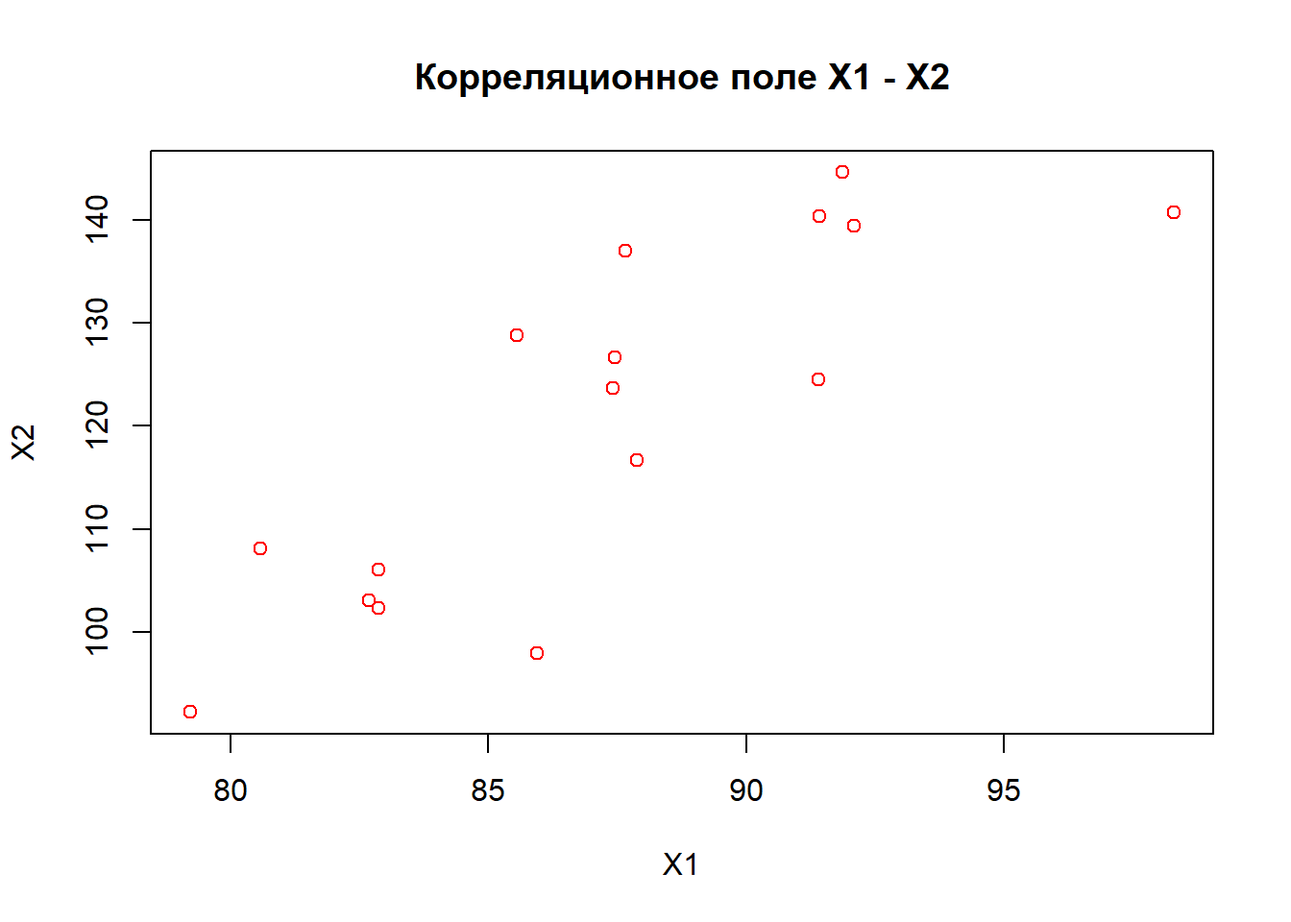
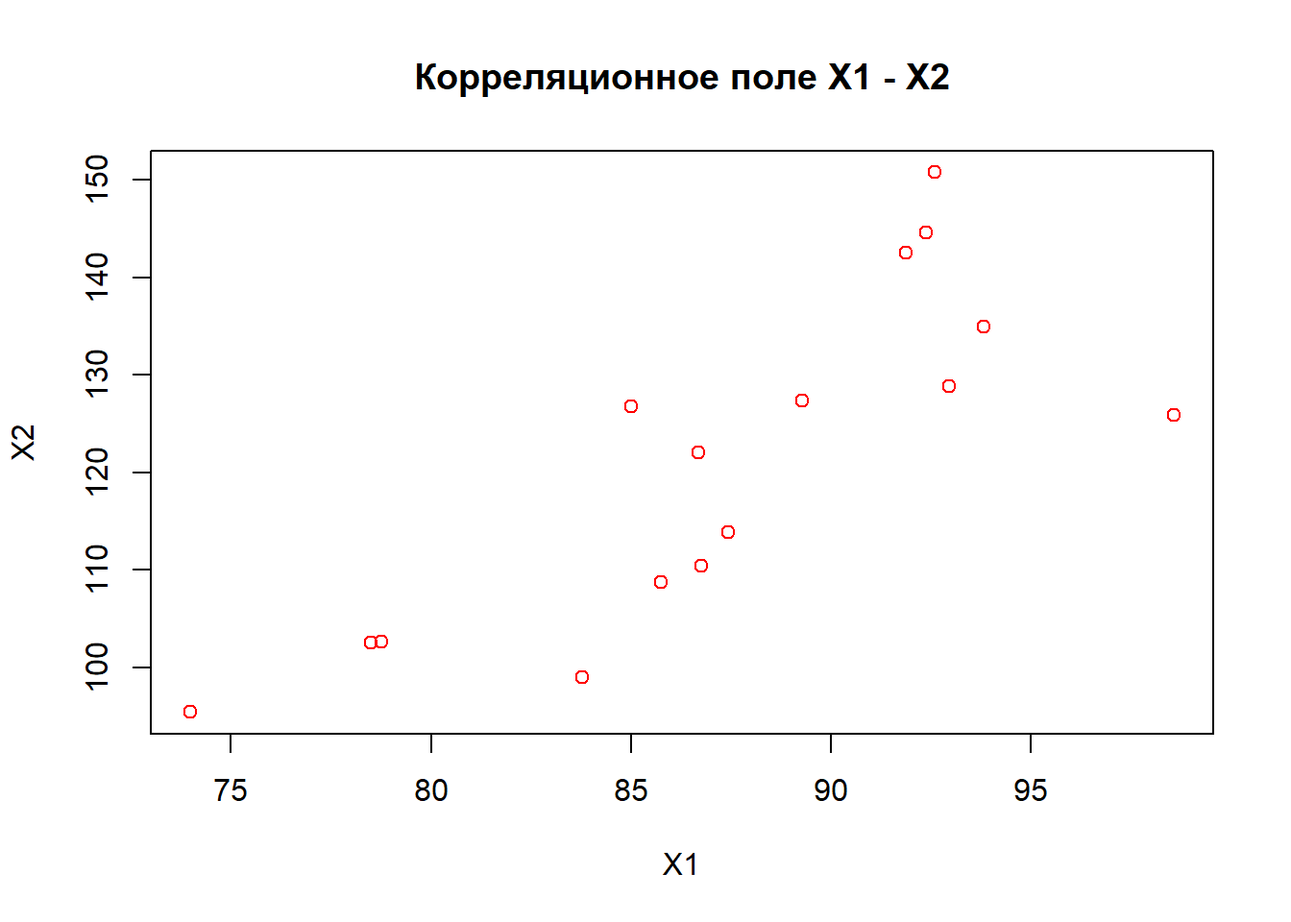
Started book

diff --git a/graphics.html b/graphics.html
@@ -24,7 +24,7 @@
 <meta name="author" content="Михаил Лысенко" />
 
 
-<meta name="date" content="2020-04-17" />
+<meta name="date" content="2020-04-20" />
 
   <meta name="viewport" content="width=device-width, initial-scale=1" />
   <meta name="apple-mobile-web-app-capable" content="yes" />
@@ -223,22 +223,22 @@ code span.wa { color: #60a0b0; font-weight: bold; font-style: italic; } /* Warni
 <a class="sourceLine" id="cb117-6" title="6">           )</a>
 <a class="sourceLine" id="cb117-7" title="7">dt4</a>
 <a class="sourceLine" id="cb117-8" title="8"><span class="co">#     id        y       x1        x2 x3</span></a>
-<a class="sourceLine" id="cb117-9" title="9"><span class="co">#  1:  1 60.67591 79.21969  92.26569  a</span></a>
-<a class="sourceLine" id="cb117-10" title="10"><span class="co">#  2:  2 61.72452 80.58171 108.15305  a</span></a>
-<a class="sourceLine" id="cb117-11" title="11"><span class="co">#  3:  3 61.92236 82.87583 102.37141  a</span></a>
-<a class="sourceLine" id="cb117-12" title="12"><span class="co">#  4:  4 61.79400 85.93679  97.92914  a</span></a>
-<a class="sourceLine" id="cb117-13" title="13"><span class="co">#  5:  5 62.81729 82.87147 106.10911  a</span></a>
-<a class="sourceLine" id="cb117-14" title="14"><span class="co">#  6:  6 62.80943 82.69275 103.06020  a</span></a>
-<a class="sourceLine" id="cb117-15" title="15"><span class="co">#  7:  7 62.21694 87.40802 123.68272  a</span></a>
-<a class="sourceLine" id="cb117-16" title="16"><span class="co">#  8:  8 63.67433 87.46018 126.63479  a</span></a>
-<a class="sourceLine" id="cb117-17" title="17"><span class="co">#  9:  9 63.58981 87.88465 116.70405  b</span></a>
-<a class="sourceLine" id="cb117-18" title="18"><span class="co"># 10: 10 64.35889 85.54751 128.79754  b</span></a>
-<a class="sourceLine" id="cb117-19" title="19"><span class="co"># 11: 11 66.37115 87.66050 137.00991  b</span></a>
-<a class="sourceLine" id="cb117-20" title="20"><span class="co"># 12: 12 63.27261 91.40185 124.46477  b</span></a>
-<a class="sourceLine" id="cb117-21" title="21"><span class="co"># 13: 13 65.53812 91.87163 144.58721  b</span></a>
-<a class="sourceLine" id="cb117-22" title="22"><span class="co"># 14: 14 67.40902 91.41421 140.32270  b</span></a>
-<a class="sourceLine" id="cb117-23" title="23"><span class="co"># 15: 15 67.02565 92.08436 139.41926  b</span></a>
-<a class="sourceLine" id="cb117-24" title="24"><span class="co"># 16: 16 68.65968 98.28665 140.72652  b</span></a></code></pre></div>
+<a class="sourceLine" id="cb117-9" title="9"><span class="co">#  1:  1 58.38335 73.97693  95.41637  a</span></a>
+<a class="sourceLine" id="cb117-10" title="10"><span class="co">#  2:  2 61.38669 78.49843 102.54036  a</span></a>
+<a class="sourceLine" id="cb117-11" title="11"><span class="co">#  3:  3 62.10987 78.75000 102.60623  a</span></a>
+<a class="sourceLine" id="cb117-12" title="12"><span class="co">#  4:  4 60.34363 83.77138  98.95742  a</span></a>
+<a class="sourceLine" id="cb117-13" title="13"><span class="co">#  5:  5 61.40765 85.75505 108.70794  a</span></a>
+<a class="sourceLine" id="cb117-14" title="14"><span class="co">#  6:  6 63.25635 86.75498 110.37966  a</span></a>
+<a class="sourceLine" id="cb117-15" title="15"><span class="co">#  7:  7 62.59664 87.42656 113.88343  a</span></a>
+<a class="sourceLine" id="cb117-16" title="16"><span class="co">#  8:  8 64.70549 86.68360 122.08660  a</span></a>
+<a class="sourceLine" id="cb117-17" title="17"><span class="co">#  9:  9 63.93793 89.27899 127.31826  b</span></a>
+<a class="sourceLine" id="cb117-18" title="18"><span class="co"># 10: 10 64.94989 84.99556 126.73719  b</span></a>
+<a class="sourceLine" id="cb117-19" title="19"><span class="co"># 11: 11 65.44007 98.57728 125.87169  b</span></a>
+<a class="sourceLine" id="cb117-20" title="20"><span class="co"># 12: 12 65.63414 92.96463 128.84540  b</span></a>
+<a class="sourceLine" id="cb117-21" title="21"><span class="co"># 13: 13 66.44715 93.82178 134.93695  b</span></a>
+<a class="sourceLine" id="cb117-22" title="22"><span class="co"># 14: 14 68.30799 91.88811 142.54846  b</span></a>
+<a class="sourceLine" id="cb117-23" title="23"><span class="co"># 15: 15 66.21250 92.37817 144.58539  b</span></a>
+<a class="sourceLine" id="cb117-24" title="24"><span class="co"># 16: 16 68.30972 92.60456 150.76835  b</span></a></code></pre></div>
 <div id="стандартные-методы" class="section level2">
 <h2><span class="header-section-number">4.1</span> Стандартные методы</h2>
 <p>Стандартные методы ограничены в возможностях, чаще используются для быстрой визуализации “для себя”</p>
@@ -292,9 +292,9 @@ code span.wa { color: #60a0b0; font-weight: bold; font-style: italic; } /* Warni
 <a class="sourceLine" id="cb124-4" title="4"><span class="st">  </span><span class="kw">geom_point</span>(<span class="dt">data =</span> dt4[,.(<span class="dt">x1=</span><span class="kw">mean</span>(x1), <span class="dt">y=</span><span class="kw">mean</span>(y), x2, id),x3], <span class="co"># рассчитали средний y, x1 для каждого x3, x2 и id неважны, но исключить нельзя</span></a>
 <a class="sourceLine" id="cb124-5" title="5">             <span class="kw">aes</span>(<span class="dt">x=</span>x1,<span class="dt">y=</span>y),      <span class="co"># отметим среднее по x1 и y</span></a>
 <a class="sourceLine" id="cb124-6" title="6">             <span class="dt">color=</span><span class="st">&quot;black&quot;</span>,      <span class="co"># всё черного  цвета</span></a>
-<a class="sourceLine" id="cb124-7" title="7">             <span class="dt">size=</span><span class="dv">5</span>,            <span class="co"># крупный размер (10)</span></a>
+<a class="sourceLine" id="cb124-7" title="7">             <span class="dt">size=</span><span class="dv">5</span>,            <span class="co"># крупный размер (5)</span></a>
 <a class="sourceLine" id="cb124-8" title="8">             <span class="dt">shape=</span><span class="dv">3</span>,            <span class="co"># форма №3 (форма плюса)</span></a>
-<a class="sourceLine" id="cb124-9" title="9">             <span class="dt">stroke =</span> <span class="fl">1.5</span>)<span class="op">+</span><span class="st">  </span><span class="co"># форма №21, заполнение fill светло-серым, непрозначность 80%, толщина границ 1.3</span></a>
+<a class="sourceLine" id="cb124-9" title="9">             <span class="dt">stroke =</span> <span class="fl">1.5</span>)<span class="op">+</span><span class="st">  </span><span class="co"># толщина границ 1.3</span></a>
 <a class="sourceLine" id="cb124-10" title="10"><span class="st">  </span><span class="kw">geom_text</span>(<span class="dt">data =</span> dt4[,.(<span class="dt">x1=</span><span class="kw">mean</span>(x1), <span class="dt">y=</span><span class="kw">mean</span>(y), <span class="dt">x2=</span><span class="dv">0</span>, <span class="dt">id=</span><span class="kw">round</span>(<span class="kw">cor</span>(y,x1),<span class="dv">3</span>)),x3],</a>
 <a class="sourceLine" id="cb124-11" title="11">            <span class="kw">aes</span>(<span class="dt">x=</span>x1,<span class="dt">y=</span>y,<span class="dt">label=</span>id, <span class="dt">col=</span><span class="kw">factor</span>(x3)), <span class="co"># выведем коэффициент корреляции для каждой груммы по x3</span></a>
 <a class="sourceLine" id="cb124-12" title="12">            <span class="dt">size=</span><span class="dv">10</span>,             <span class="co"># размер текста</span></a>
@@ -349,8 +349,8 @@ code span.wa { color: #60a0b0; font-weight: bold; font-style: italic; } /* Warni
 <a class="sourceLine" id="cb125-17" title="17">    ) <span class="op">%&gt;%</span></a>
 <a class="sourceLine" id="cb125-18" title="18"><span class="st">  </span><span class="kw">hc_add_theme</span>(<span class="kw">hc_theme_google</span>()) <span class="op">%&gt;%</span><span class="st">      </span><span class="co"># задать тему</span></a>
 <a class="sourceLine" id="cb125-19" title="19"><span class="st">  </span><span class="kw">hc_title</span>(<span class="dt">text =</span> <span class="st">&#39;Highcharter plot&#39;</span>)      <span class="co"># заголовок графика</span></a></code></pre></div>
-<div id="htmlwidget-5bd3913b70f540dba408" style="width:100%;height:500px;" class="highchart html-widget"></div>
-<script type="application/json" data-for="htmlwidget-5bd3913b70f540dba408">{"x":{"hc_opts":{"title":{"text":"Highcharter plot"},"yAxis":[{"opposite":false,"title":{"text":"Value of y"},"min":50.6759075645518},{"opposite":true,"title":{"text":"Values of x1, x2"}}],"credits":{"enabled":false},"exporting":{"enabled":false},"plotOptions":{"series":{"label":{"enabled":false},"turboThreshold":0},"treemap":{"layoutAlgorithm":"squarified"}},"xAxis":{"categories":[1,2,3,4,5,6,7,8,9,10,11,12,13,14,15,16],"title":{"text":"Number in order"}},"series":[{"data":[60.7,61.7,61.9,61.8,62.8,62.8,62.2,63.7,63.6,64.4,66.4,63.3,65.5,67.4,67,68.7],"name":"y","type":"column","color":"#D1D1D1"},{"data":[79.2,80.6,82.9,85.9,82.9,82.7,87.4,87.5,87.9,85.5,87.7,91.4,91.9,91.4,92.1,98.3],"name":"x1","type":"line","yAxis":1,"color":"#0080FF"},{"data":[92.3,108.2,102.4,97.9,106.1,103.1,123.7,126.6,116.7,128.8,137,124.5,144.6,140.3,139.4,140.7],"name":"x2","type":"line","yAxis":1,"color":"#FF6666"}]},"theme":{"colors":["#0266C8","#F90101","#F2B50F","#00933B"],"chart":{"style":{"fontFamily":"Roboto","color":"#444444"}},"xAxis":{"gridLineWidth":1,"gridLineColor":"#F3F3F3","lineColor":"#F3F3F3","minorGridLineColor":"#F3F3F3","tickColor":"#F3F3F3","tickWidth":1},"yAxis":{"gridLineColor":"#F3F3F3","lineColor":"#F3F3F3","minorGridLineColor":"#F3F3F3","tickColor":"#F3F3F3","tickWidth":1},"legendBackgroundColor":"rgba(0, 0, 0, 0.5)","background2":"#505053","dataLabelsColor":"#B0B0B3","textColor":"#C0C0C0","contrastTextColor":"#F0F0F3","maskColor":"rgba(255,255,255,0.3)"},"conf_opts":{"global":{"Date":null,"VMLRadialGradientURL":"http =//code.highcharts.com/list(version)/gfx/vml-radial-gradient.png","canvasToolsURL":"http =//code.highcharts.com/list(version)/modules/canvas-tools.js","getTimezoneOffset":null,"timezoneOffset":0,"useUTC":true},"lang":{"contextButtonTitle":"Chart context menu","decimalPoint":".","downloadJPEG":"Download JPEG image","downloadPDF":"Download PDF document","downloadPNG":"Download PNG image","downloadSVG":"Download SVG vector image","drillUpText":"Back to {series.name}","invalidDate":null,"loading":"Loading...","months":["January","February","March","April","May","June","July","August","September","October","November","December"],"noData":"No data to display","numericSymbols":["k","M","G","T","P","E"],"printChart":"Print chart","resetZoom":"Reset zoom","resetZoomTitle":"Reset zoom level 1:1","shortMonths":["Jan","Feb","Mar","Apr","May","Jun","Jul","Aug","Sep","Oct","Nov","Dec"],"thousandsSep":" ","weekdays":["Sunday","Monday","Tuesday","Wednesday","Thursday","Friday","Saturday"]}},"type":"chart","fonts":"Roboto","debug":false},"evals":[],"jsHooks":[]}</script>
+<div id="htmlwidget-7718a77925a2e0e5af71" style="width:100%;height:500px;" class="highchart html-widget"></div>
+<script type="application/json" data-for="htmlwidget-7718a77925a2e0e5af71">{"x":{"hc_opts":{"title":{"text":"Highcharter plot"},"yAxis":[{"opposite":false,"title":{"text":"Value of y"},"min":48.3833509966203},{"opposite":true,"title":{"text":"Values of x1, x2"}}],"credits":{"enabled":false},"exporting":{"enabled":false},"plotOptions":{"series":{"label":{"enabled":false},"turboThreshold":0},"treemap":{"layoutAlgorithm":"squarified"}},"xAxis":{"categories":[1,2,3,4,5,6,7,8,9,10,11,12,13,14,15,16],"title":{"text":"Number in order"}},"series":[{"data":[58.4,61.4,62.1,60.3,61.4,63.3,62.6,64.7,63.9,64.9,65.4,65.6,66.4,68.3,66.2,68.3],"name":"y","type":"column","color":"#D1D1D1"},{"data":[74,78.5,78.7,83.8,85.8,86.8,87.4,86.7,89.3,85,98.6,93,93.8,91.9,92.4,92.6],"name":"x1","type":"line","yAxis":1,"color":"#0080FF"},{"data":[95.4,102.5,102.6,99,108.7,110.4,113.9,122.1,127.3,126.7,125.9,128.8,134.9,142.5,144.6,150.8],"name":"x2","type":"line","yAxis":1,"color":"#FF6666"}]},"theme":{"colors":["#0266C8","#F90101","#F2B50F","#00933B"],"chart":{"style":{"fontFamily":"Roboto","color":"#444444"}},"xAxis":{"gridLineWidth":1,"gridLineColor":"#F3F3F3","lineColor":"#F3F3F3","minorGridLineColor":"#F3F3F3","tickColor":"#F3F3F3","tickWidth":1},"yAxis":{"gridLineColor":"#F3F3F3","lineColor":"#F3F3F3","minorGridLineColor":"#F3F3F3","tickColor":"#F3F3F3","tickWidth":1},"legendBackgroundColor":"rgba(0, 0, 0, 0.5)","background2":"#505053","dataLabelsColor":"#B0B0B3","textColor":"#C0C0C0","contrastTextColor":"#F0F0F3","maskColor":"rgba(255,255,255,0.3)"},"conf_opts":{"global":{"Date":null,"VMLRadialGradientURL":"http =//code.highcharts.com/list(version)/gfx/vml-radial-gradient.png","canvasToolsURL":"http =//code.highcharts.com/list(version)/modules/canvas-tools.js","getTimezoneOffset":null,"timezoneOffset":0,"useUTC":true},"lang":{"contextButtonTitle":"Chart context menu","decimalPoint":".","downloadJPEG":"Download JPEG image","downloadPDF":"Download PDF document","downloadPNG":"Download PNG image","downloadSVG":"Download SVG vector image","drillUpText":"Back to {series.name}","invalidDate":null,"loading":"Loading...","months":["January","February","March","April","May","June","July","August","September","October","November","December"],"noData":"No data to display","numericSymbols":["k","M","G","T","P","E"],"printChart":"Print chart","resetZoom":"Reset zoom","resetZoomTitle":"Reset zoom level 1:1","shortMonths":["Jan","Feb","Mar","Apr","May","Jun","Jul","Aug","Sep","Oct","Nov","Dec"],"thousandsSep":" ","weekdays":["Sunday","Monday","Tuesday","Wednesday","Thursday","Friday","Saturday"]}},"type":"chart","fonts":"Roboto","debug":false},"evals":[],"jsHooks":[]}</script>
 <p>Построим график зависимости <code>y</code> от <code>x1</code> c изменением цвета в зависимости от <code>x2</code></p>
 <div class="sourceCode" id="cb126"><pre class="sourceCode r"><code class="sourceCode r"><a class="sourceLine" id="cb126-1" title="1"></a>
 <a class="sourceLine" id="cb126-2" title="2"><span class="kw">highchart</span>() <span class="op">%&gt;%</span></a>
@@ -369,8 +369,8 @@ code span.wa { color: #60a0b0; font-weight: bold; font-style: italic; } /* Warni
 <a class="sourceLine" id="cb126-15" title="15"><span class="st">  </span><span class="kw">hc_add_theme</span>(<span class="kw">hc_theme_flatdark</span>())<span class="op">%&gt;%</span><span class="st">    </span><span class="co"># задать тему</span></a>
 <a class="sourceLine" id="cb126-16" title="16"><span class="st">  </span><span class="kw">hc_legend</span>(<span class="dt">enabled =</span> F) <span class="op">%&gt;%</span><span class="st">              </span><span class="co"># убрать легенду</span></a>
 <a class="sourceLine" id="cb126-17" title="17"><span class="st">  </span><span class="kw">hc_title</span>(<span class="dt">text =</span> <span class="st">&#39;Highcharter plot&#39;</span>)     <span class="co"># заголовок графика</span></a></code></pre></div>
-<div id="htmlwidget-641fe398be8c23fbb2bd" style="width:100%;height:500px;" class="highchart html-widget"></div>
-<script type="application/json" data-for="htmlwidget-641fe398be8c23fbb2bd">{"x":{"hc_opts":{"title":{"text":"Highcharter plot"},"yAxis":{"title":{"text":"Value of y"}},"credits":{"enabled":false},"exporting":{"enabled":false},"plotOptions":{"series":{"label":{"enabled":false},"turboThreshold":0},"treemap":{"layoutAlgorithm":"squarified"}},"xAxis":{"title":{"text":"Value of x1"}},"series":[{"group":"group","data":[{"id":1,"y":60.6759075645518,"x1":79.2196877157603,"x2":92.2656924569471,"x3":"a","x":79.2196877157603,"size":92.2656924569471,"color":"#FF0000","z":92.2656924569471},{"id":2,"y":61.7245186198755,"x1":80.5817107669678,"x2":108.153054023406,"x3":"a","x":80.5817107669678,"size":108.153054023406,"color":"#FF0000","z":108.153054023406},{"id":3,"y":61.9223581240193,"x1":82.8758301518235,"x2":102.371408492193,"x3":"a","x":82.8758301518235,"size":102.371408492193,"color":"#FF0000","z":102.371408492193},{"id":4,"y":61.794000257771,"x1":85.9367938165178,"x2":97.9291391824693,"x3":"a","x":85.9367938165178,"size":97.9291391824693,"color":"#FF0000","z":97.9291391824693},{"id":5,"y":62.817291359193,"x1":82.8714743968719,"x2":106.109109196036,"x3":"a","x":82.8714743968719,"size":106.109109196036,"color":"#FF0000","z":106.109109196036},{"id":6,"y":62.8094305735317,"x1":82.692753738397,"x2":103.060196099515,"x3":"a","x":82.692753738397,"size":103.060196099515,"color":"#FF0000","z":103.060196099515},{"id":7,"y":62.2169444743762,"x1":87.4080235569972,"x2":123.682716106506,"x3":"a","x":87.4080235569972,"size":123.682716106506,"color":"#FF0000","z":123.682716106506},{"id":8,"y":63.6743302010759,"x1":87.4601848552019,"x2":126.634785642349,"x3":"a","x":87.4601848552019,"size":126.634785642349,"color":"#FF0000","z":126.634785642349},{"id":9,"y":63.5898082533789,"x1":87.8846480826123,"x2":116.704049452715,"x3":"b","x":87.8846480826123,"size":116.704049452715,"color":"#FFFF00","z":116.704049452715},{"id":10,"y":64.3588879816275,"x1":85.5475082566329,"x2":128.797542847218,"x3":"b","x":85.5475082566329,"size":128.797542847218,"color":"#FFFF00","z":128.797542847218},{"id":11,"y":66.3711479753302,"x1":87.6605028993475,"x2":137.009911095593,"x3":"b","x":87.6605028993475,"size":137.009911095593,"color":"#FFFF00","z":137.009911095593},{"id":12,"y":63.2726099075971,"x1":91.4018501632979,"x2":124.464768573903,"x3":"b","x":91.4018501632979,"size":124.464768573903,"color":"#FFFF00","z":124.464768573903},{"id":13,"y":65.538122855648,"x1":91.871631251494,"x2":144.587206762589,"x3":"b","x":91.871631251494,"size":144.587206762589,"color":"#FFFF00","z":144.587206762589},{"id":14,"y":67.4090163169578,"x1":91.4142119137,"x2":140.322698933126,"x3":"b","x":91.4142119137,"size":140.322698933126,"color":"#FFFF00","z":140.322698933126},{"id":15,"y":67.0256544865707,"x1":92.084358684397,"x2":139.419264790075,"x3":"b","x":92.084358684397,"size":139.419264790075,"color":"#FFFF00","z":139.419264790075},{"id":16,"y":68.6596841559842,"x1":98.286651770173,"x2":140.726515436887,"x3":"b","x":98.286651770173,"size":140.726515436887,"color":"#FFFF00","z":140.726515436887}],"type":"bubble"}],"tooltip":{"useHTML":true,"headerFormat":"","pointFormat":"<table>\n  <tr>\n    <th>id<\/th>\n    <td>{point.id}<\/td>\n  <\/tr>\n  <tr>\n    <th>Value of y<\/th>\n    <td>{point.y:.1f}<\/td>\n  <\/tr>\n  <tr>\n    <th>Value of x1<\/th>\n    <td>{point.x1:.1f}<\/td>\n  <\/tr>\n  <tr>\n    <th>Value of x2<\/th>\n    <td>{point.x2:.1f}<\/td>\n  <\/tr>\n  <tr>\n    <th>Value of x3<\/th>\n    <td>{point.x3}<\/td>\n  <\/tr>\n<\/table>"},"legend":{"enabled":false}},"theme":{"colors":["#f1c40f","#2ecc71","#9b59b6","#e74c3c","#34495e","#3498db","#1abc9c","#f39c12","#d35400"],"chart":{"backgroundColor":"#34495e"},"xAxis":{"gridLineDashStyle":"Dash","gridLineWidth":1,"gridLineColor":"#46627f","lineColor":"#46627f","minorGridLineColor":"#BDC3C7","tickColor":"#46627f","tickWidth":1,"title":{"style":{"color":"#FFFFFF"}}},"yAxis":{"gridLineDashStyle":"Dash","gridLineColor":"#46627f","lineColor":"#BDC3C7","minorGridLineColor":"#BDC3C7","tickColor":"#46627f","tickWidth":1,"title":{"style":{"color":"#FFFFFF"}}},"legendBackgroundColor":"rgba(0, 0, 0, 0.5)","background2":"#505053","dataLabelsColor":"#B0B0B3","textColor":"#34495e","contrastTextColor":"#F0F0F3","maskColor":"rgba(255,255,255,0.3)","title":{"style":{"color":"#FFFFFF"}},"subtitle":{"style":{"color":"#666666"}},"legend":{"itemStyle":{"color":"#C0C0C0"},"itemHoverStyle":{"color":"#C0C0C0"},"itemHiddenStyle":{"color":"#444444"}}},"conf_opts":{"global":{"Date":null,"VMLRadialGradientURL":"http =//code.highcharts.com/list(version)/gfx/vml-radial-gradient.png","canvasToolsURL":"http =//code.highcharts.com/list(version)/modules/canvas-tools.js","getTimezoneOffset":null,"timezoneOffset":0,"useUTC":true},"lang":{"contextButtonTitle":"Chart context menu","decimalPoint":".","downloadJPEG":"Download JPEG image","downloadPDF":"Download PDF document","downloadPNG":"Download PNG image","downloadSVG":"Download SVG vector image","drillUpText":"Back to {series.name}","invalidDate":null,"loading":"Loading...","months":["January","February","March","April","May","June","July","August","September","October","November","December"],"noData":"No data to display","numericSymbols":["k","M","G","T","P","E"],"printChart":"Print chart","resetZoom":"Reset zoom","resetZoomTitle":"Reset zoom level 1:1","shortMonths":["Jan","Feb","Mar","Apr","May","Jun","Jul","Aug","Sep","Oct","Nov","Dec"],"thousandsSep":" ","weekdays":["Sunday","Monday","Tuesday","Wednesday","Thursday","Friday","Saturday"]}},"type":"chart","fonts":[],"debug":false},"evals":[],"jsHooks":[]}</script>
+<div id="htmlwidget-0e3f1bb193af42092c11" style="width:100%;height:500px;" class="highchart html-widget"></div>
+<script type="application/json" data-for="htmlwidget-0e3f1bb193af42092c11">{"x":{"hc_opts":{"title":{"text":"Highcharter plot"},"yAxis":{"title":{"text":"Value of y"}},"credits":{"enabled":false},"exporting":{"enabled":false},"plotOptions":{"series":{"label":{"enabled":false},"turboThreshold":0},"treemap":{"layoutAlgorithm":"squarified"}},"xAxis":{"title":{"text":"Value of x1"}},"series":[{"group":"group","data":[{"id":1,"y":58.3833509966203,"x1":73.9769340120888,"x2":95.4163693092234,"x3":"a","x":73.9769340120888,"size":95.4163693092234,"color":"#FF0000","z":95.4163693092234},{"id":2,"y":61.386685155469,"x1":78.4984294167071,"x2":102.540357661662,"x3":"a","x":78.4984294167071,"size":102.540357661662,"color":"#FF0000","z":102.540357661662},{"id":3,"y":62.1098660324449,"x1":78.7499963643594,"x2":102.606229429003,"x3":"a","x":78.7499963643594,"size":102.606229429003,"color":"#FF0000","z":102.606229429003},{"id":4,"y":60.3436335946455,"x1":83.7713811889924,"x2":98.9574223989972,"x3":"a","x":83.7713811889924,"size":98.9574223989972,"color":"#FF0000","z":98.9574223989972},{"id":5,"y":61.4076456188045,"x1":85.7550458859445,"x2":108.707935031924,"x3":"a","x":85.7550458859445,"size":108.707935031924,"color":"#FF0000","z":108.707935031924},{"id":6,"y":63.2563451006139,"x1":86.7549764397215,"x2":110.379657293581,"x3":"a","x":86.7549764397215,"size":110.379657293581,"color":"#FF0000","z":110.379657293581},{"id":7,"y":62.5966420587233,"x1":87.4265595546169,"x2":113.88343125987,"x3":"a","x":87.4265595546169,"size":113.88343125987,"color":"#FF0000","z":113.88343125987},{"id":8,"y":64.7054928311408,"x1":86.6835957313424,"x2":122.08660174423,"x3":"a","x":86.6835957313424,"size":122.08660174423,"color":"#FF0000","z":122.08660174423},{"id":9,"y":63.937932688807,"x1":89.2789910352531,"x2":127.318262453308,"x3":"b","x":89.2789910352531,"size":127.318262453308,"color":"#FFFF00","z":127.318262453308},{"id":10,"y":64.9498854098582,"x1":84.9955617623647,"x2":126.737187336116,"x3":"b","x":84.9955617623647,"size":126.737187336116,"color":"#FFFF00","z":126.737187336116},{"id":11,"y":65.4400703879105,"x1":98.5772834676396,"x2":125.871689868987,"x3":"b","x":98.5772834676396,"size":125.871689868987,"color":"#FFFF00","z":125.871689868987},{"id":12,"y":65.6341443087591,"x1":92.9646264810275,"x2":128.845399550851,"x3":"b","x":92.9646264810275,"size":128.845399550851,"color":"#FFFF00","z":128.845399550851},{"id":13,"y":66.4471539739901,"x1":93.8217808996699,"x2":134.93695276997,"x3":"b","x":93.8217808996699,"size":134.93695276997,"color":"#FFFF00","z":134.93695276997},{"id":14,"y":68.307992672989,"x1":91.8881075511036,"x2":142.54845891293,"x3":"b","x":91.8881075511036,"size":142.54845891293,"color":"#FFFF00","z":142.54845891293},{"id":15,"y":66.2125006623911,"x1":92.3781713188169,"x2":144.585390813217,"x3":"b","x":92.3781713188169,"size":144.585390813217,"color":"#FFFF00","z":144.585390813217},{"id":16,"y":68.3097211237617,"x1":92.6045614500568,"x2":150.768350562339,"x3":"b","x":92.6045614500568,"size":150.768350562339,"color":"#FFFF00","z":150.768350562339}],"type":"bubble"}],"tooltip":{"useHTML":true,"headerFormat":"","pointFormat":"<table>\n  <tr>\n    <th>id<\/th>\n    <td>{point.id}<\/td>\n  <\/tr>\n  <tr>\n    <th>Value of y<\/th>\n    <td>{point.y:.1f}<\/td>\n  <\/tr>\n  <tr>\n    <th>Value of x1<\/th>\n    <td>{point.x1:.1f}<\/td>\n  <\/tr>\n  <tr>\n    <th>Value of x2<\/th>\n    <td>{point.x2:.1f}<\/td>\n  <\/tr>\n  <tr>\n    <th>Value of x3<\/th>\n    <td>{point.x3}<\/td>\n  <\/tr>\n<\/table>"},"legend":{"enabled":false}},"theme":{"colors":["#f1c40f","#2ecc71","#9b59b6","#e74c3c","#34495e","#3498db","#1abc9c","#f39c12","#d35400"],"chart":{"backgroundColor":"#34495e"},"xAxis":{"gridLineDashStyle":"Dash","gridLineWidth":1,"gridLineColor":"#46627f","lineColor":"#46627f","minorGridLineColor":"#BDC3C7","tickColor":"#46627f","tickWidth":1,"title":{"style":{"color":"#FFFFFF"}}},"yAxis":{"gridLineDashStyle":"Dash","gridLineColor":"#46627f","lineColor":"#BDC3C7","minorGridLineColor":"#BDC3C7","tickColor":"#46627f","tickWidth":1,"title":{"style":{"color":"#FFFFFF"}}},"legendBackgroundColor":"rgba(0, 0, 0, 0.5)","background2":"#505053","dataLabelsColor":"#B0B0B3","textColor":"#34495e","contrastTextColor":"#F0F0F3","maskColor":"rgba(255,255,255,0.3)","title":{"style":{"color":"#FFFFFF"}},"subtitle":{"style":{"color":"#666666"}},"legend":{"itemStyle":{"color":"#C0C0C0"},"itemHoverStyle":{"color":"#C0C0C0"},"itemHiddenStyle":{"color":"#444444"}}},"conf_opts":{"global":{"Date":null,"VMLRadialGradientURL":"http =//code.highcharts.com/list(version)/gfx/vml-radial-gradient.png","canvasToolsURL":"http =//code.highcharts.com/list(version)/modules/canvas-tools.js","getTimezoneOffset":null,"timezoneOffset":0,"useUTC":true},"lang":{"contextButtonTitle":"Chart context menu","decimalPoint":".","downloadJPEG":"Download JPEG image","downloadPDF":"Download PDF document","downloadPNG":"Download PNG image","downloadSVG":"Download SVG vector image","drillUpText":"Back to {series.name}","invalidDate":null,"loading":"Loading...","months":["January","February","March","April","May","June","July","August","September","October","November","December"],"noData":"No data to display","numericSymbols":["k","M","G","T","P","E"],"printChart":"Print chart","resetZoom":"Reset zoom","resetZoomTitle":"Reset zoom level 1:1","shortMonths":["Jan","Feb","Mar","Apr","May","Jun","Jul","Aug","Sep","Oct","Nov","Dec"],"thousandsSep":" ","weekdays":["Sunday","Monday","Tuesday","Wednesday","Thursday","Friday","Saturday"]}},"type":"chart","fonts":[],"debug":false},"evals":[],"jsHooks":[]}</script>
 
 </div>
 </div>

diff --git a/index.html b/index.html
@@ -24,7 +24,7 @@
 <meta name="author" content="Михаил Лысенко" />
 
 
-<meta name="date" content="2020-04-17" />
+<meta name="date" content="2020-04-20" />
 
   <meta name="viewport" content="width=device-width, initial-scale=1" />
   <meta name="apple-mobile-web-app-capable" content="yes" />
@@ -215,7 +215,7 @@ code span.wa { color: #60a0b0; font-weight: bold; font-style: italic; } /* Warni
 <div id="header">
 <h1 class="title">Методические указания по выполнению расчётно-графической работы в R</h1>
 <p class="author"><em>Михаил Лысенко</em></p>
-<p class="date"><em>2020-04-17</em></p>
+<p class="date"><em>2020-04-20</em></p>
 </div>
 <div id="задание-на-расчётно-графическую-работу" class="section level1">
 <h1><span class="header-section-number">Раздел 1</span> Задание на расчётно-графическую работу</h1>
@@ -248,7 +248,7 @@ code span.wa { color: #60a0b0; font-weight: bold; font-style: italic; } /* Warni
 По полученному показателю Для каждого региона рассчитать среднее арифметическое и медиану.<br />
 Отобразить полученные значения на карте “Russia with disputed territories” библиотеки Highcharter (с учётом, что в данных по обследованиям ХМАО и ЯНАО относятся к Тюменской области, а Ненецкий АО к Архангельской области). Цветовая шкала в зависимости от среднего, во всплывающем окне выводить название региона, среднее и медиану.</p>
 <p>Проанализировать результаты, сделать выводы. Как различаются регионы между собой? Отличается ли средний доход от медианного дохода. В связи с чем возникают различия?</p>
-<p><strong>4.</strong> Отфильтровать данные, оставив наблюдения по федеральному округу в соответствии с вариантом. Отклик
+<p><strong>4.</strong> Отфильтровать данные, оставив наблюдения по федеральному округу в соответствии с вариантом.<br />
 На одном рисунке построить корреляционные поля, рассчитать коэффициенты корреляции и распределения между переменными <em>y</em>, <em>x</em><sub><em>0</em></sub>, <em>x</em><sub><em>1</em></sub>, <em>x</em><sub><em>2</em></sub>, <em>x</em><sub><em>3</em></sub>, <em>x</em><sub><em>4</em></sub> (функция ggpairs() библиотеки GGally). Сделать выводы о наличии связи между показателями, её виде и форме.</p>
 <p><strong>5.</strong> Провести проверку данных на наличие выбросов с удалением всех наблюдений <span class="math inline">\(\overline{x}_{(i)}=(x_{1i},x_{2i})\)</span>, для которых выполняется соотношение <span class="math inline">\(h_{i}=\overline{x}_{(i)}(X^{T}X)^{-1}\overline{x}_{(i)}^{T}\geqslant \frac{3}{N}\)</span>, где <span class="math inline">\(X\)</span> - матрица, составленная из значений переменных <em>x</em><sub><em>1</em></sub> и <em>x</em><sub><em>2</em></sub>. На основе оставшихся наблюдений перестроить корреляционные поля, сделать сравнения. Провести расчет основных выборочных характеристик, проинтерпретировать результаты, сделать выводы.</p>
 <p><strong>6.</strong> Рассчитать выборочные парные коэффициенты корреляции для всех возможных пар переменных, проверить их на значимость, сделать выводы о тесноте связи между признаками.</p>

diff --git a/functions.html b/functions.html
@@ -24,7 +24,7 @@
 <meta name="author" content="Михаил Лысенко" />
 
 
-<meta name="date" content="2020-04-17" />
+<meta name="date" content="2020-04-20" />
 
   <meta name="viewport" content="width=device-width, initial-scale=1" />
   <meta name="apple-mobile-web-app-capable" content="yes" />

diff --git a/intro.html b/intro.html
@@ -24,7 +24,7 @@
 <meta name="author" content="Михаил Лысенко" />
 
 
-<meta name="date" content="2020-04-17" />
+<meta name="date" content="2020-04-20" />
 
   <meta name="viewport" content="width=device-width, initial-scale=1" />
   <meta name="apple-mobile-web-app-capable" content="yes" />
